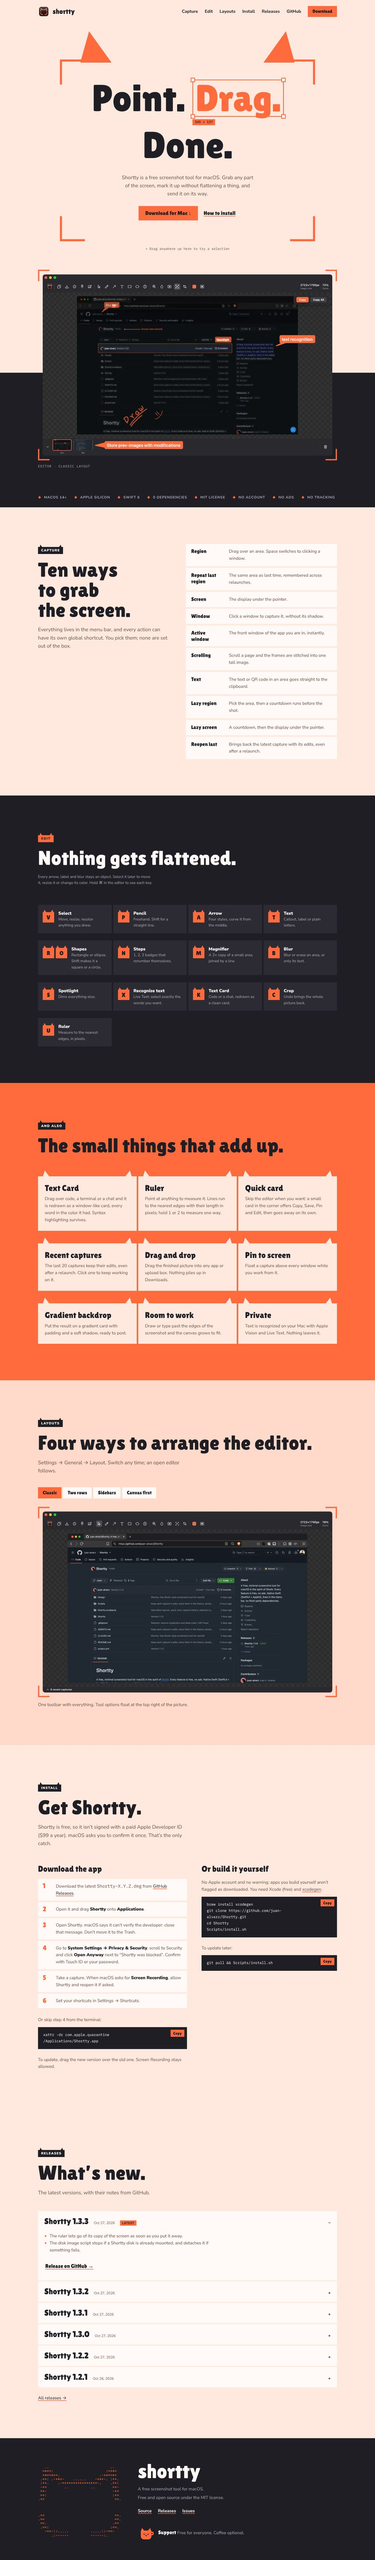
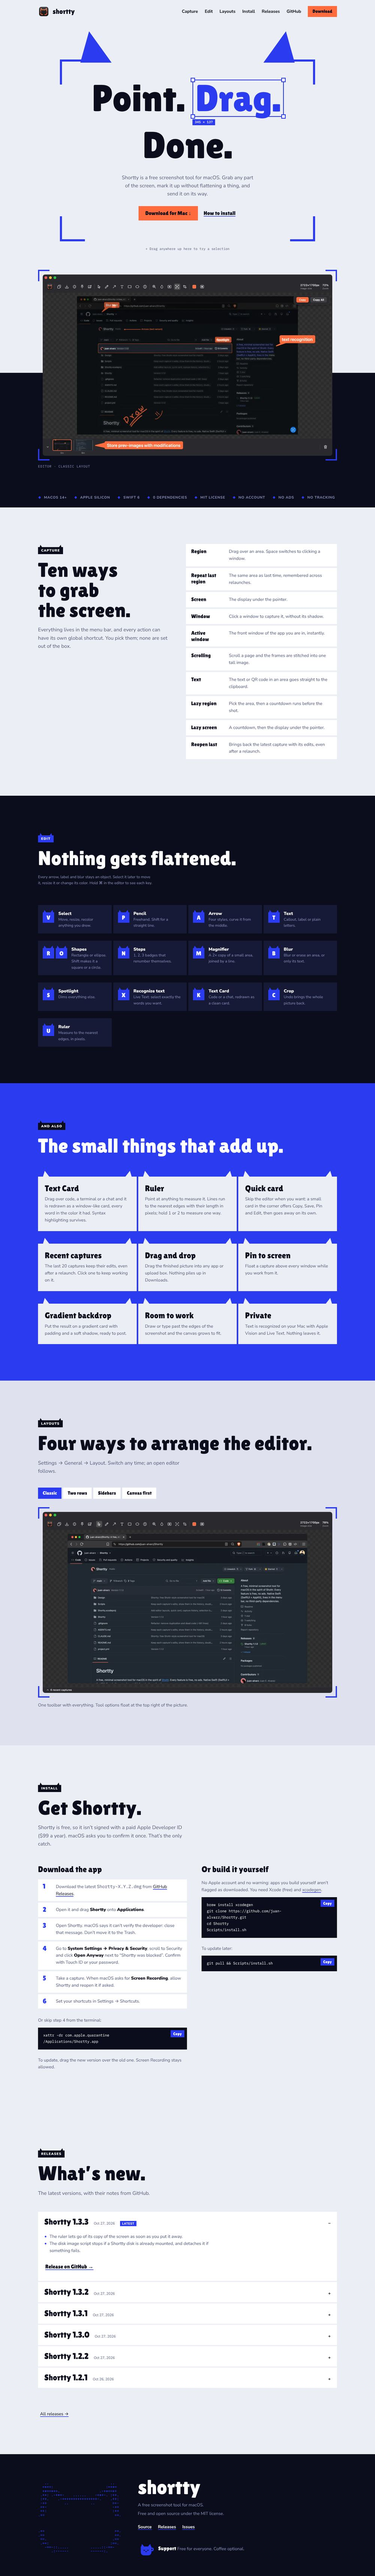
Version 21: Cat in cobalt colors
Version 17's design, layout and fonts unchanged, in version 01's palette:
paper and ink instead of blush and charcoal, cobalt wherever 17 used orange
(ears, the framed word, bands, keycaps, tags), white text on cobalt, and
orange kept for the buttons, as in version 01.

Claude-Session: https://claude.ai/code/session_019xH8RKzocdR7SR5fZcfY1h

diff --git a/src/styles/global.css b/src/styles/global.css
@@ -1,8 +1,9 @@
 /*
-  Layout (version 17, cat): mascot-forward. The headline lives inside a giant cat head
-  made of the icon's viewfinder corners plus two ears, and the ears come back on labels,
-  keycaps and buttons. Blush and charcoal with Shortty orange, Lilita One headlines,
-  Nunito Sans for reading. Sharp corners, no card borders.
+  Layout (version 21, cat in cobalt): version 17's design, unchanged, in version 01's colors.
+  Mascot-forward: the headline lives inside a giant cat head made of the icon's viewfinder
+  corners plus two ears, and the ears come back on labels, keycaps and buttons. Paper and ink
+  with cobalt where 17 had orange, orange buttons, Lilita One headlines, Nunito Sans for
+  reading. Sharp corners, no card borders.
 */
 @import '@fontsource/lilita-one/latin-400';
 @import '@fontsource/nunito-sans/latin-400';
@@ -14,16 +15,19 @@
 :root {
   color-scheme: light;
 
-  /* Color, named by role. Here: light = blush, dark = the icon's charcoal, accent = Shortty orange. */
-  --primary: #ff6b3d;
-  --dark: #1f1e24;
-  --dark-raised: #2c2b33;
-  --light: #ffe9df;
-  --light-raised: #ffd9c9;
-  --accent: #ff6b3d;
-  --white: #fffaf7;
-  --on-dark-muted: #b3adb8;
-  --on-light-muted: #6f4d42;
+  /* Color, named by role. Version 01's palette on this design: light = paper, dark = ink,
+     accent = cobalt (where the cat design had Shortty orange), cta = Shortty orange for buttons. */
+  --primary: #2b3bf0;
+  --dark: #0b0d1c;
+  --dark-raised: #161a36;
+  --light: #eceef5;
+  --light-raised: #dfe2ee;
+  --accent: #2b3bf0;
+  --on-accent: #ffffff;
+  --cta: #ff6b3d;
+  --white: #ffffff;
+  --on-dark-muted: #8f96c4;
+  --on-light-muted: #525877;
 
   /* Type */
   --display: 'Lilita One', 'Arial Rounded MT Bold', 'Arial Black', sans-serif;
@@ -69,7 +73,7 @@ code, pre { font-family: var(--mono); }
 .band { padding-block: clamp(80px, 11vw, 140px); }
 .band.light { background: var(--light); color: var(--dark); }
 .band.raised { background: var(--light-raised); color: var(--dark); }
-.band.primary { background: var(--accent); color: var(--dark); }
+.band.primary { background: var(--accent); color: var(--on-accent); }
 .band.dark { background: var(--dark); color: var(--white); }
 
 .wrap {
@@ -107,7 +111,7 @@ code, pre { font-family: var(--mono); }
 .label::before, .label::after { content: ''; position: absolute; top: -9px; width: 11px; height: 11px; background: var(--dark); }
 .label::before { left: 6px; clip-path: polygon(0 100%, 28% 0, 100% 100%); }
 .label::after { right: 6px; clip-path: polygon(0 100%, 72% 0, 100% 100%); }
-.dark .label, .dark .label::before, .dark .label::after { background: var(--accent); color: var(--dark); }
+.dark .label, .dark .label::before, .dark .label::after { background: var(--accent); color: var(--on-accent); }
 
 .lead { font-size: var(--step-1); max-width: 50ch; margin-top: 22px; }
 .light .lead, .raised .lead { color: var(--on-light-muted); }
@@ -120,14 +124,14 @@ code, pre { font-family: var(--mono); }
   padding: 17px 26px;
   font: 400 1.3rem/1 var(--display);
   text-decoration: none;
-  background: var(--accent);
+  background: var(--cta);
   color: var(--dark);
 }
 .button:hover { background: var(--dark); color: var(--white); }
 .button.ghost { background: transparent; color: inherit; padding-inline: 4px; text-decoration: underline; text-decoration-color: var(--accent); }
 .button.ghost:hover { background: transparent; color: var(--accent); }
 
-/* Orange viewfinder corners around whatever it wraps, like the app icon. */
+/* Accent viewfinder corners around whatever it wraps, like the app icon. */
 .viewfinder {
   --c: var(--accent);
   --len: clamp(20px, 3.4vw, 44px);
@@ -170,7 +174,7 @@ code, pre { font-family: var(--mono); }
   font: 500 0.8rem/1 var(--mono);
   letter-spacing: 0;
   background: var(--accent);
-  color: var(--dark);
+  color: var(--on-accent);
 }
 
 /* A section reached from the nav is focused for keyboard users, but needs no outline. */
